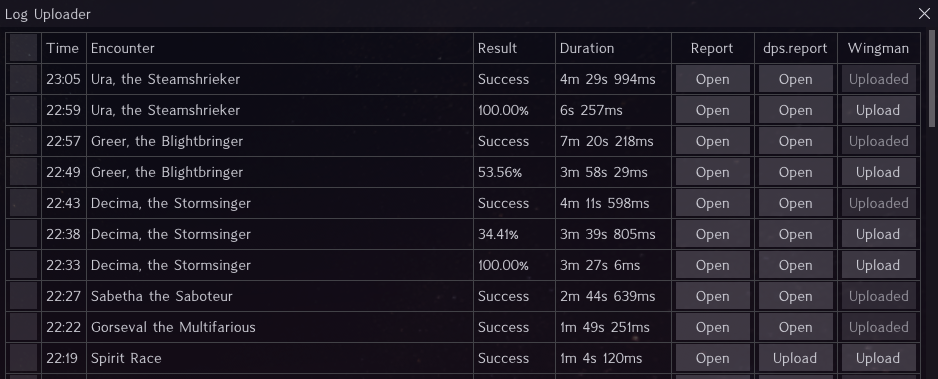
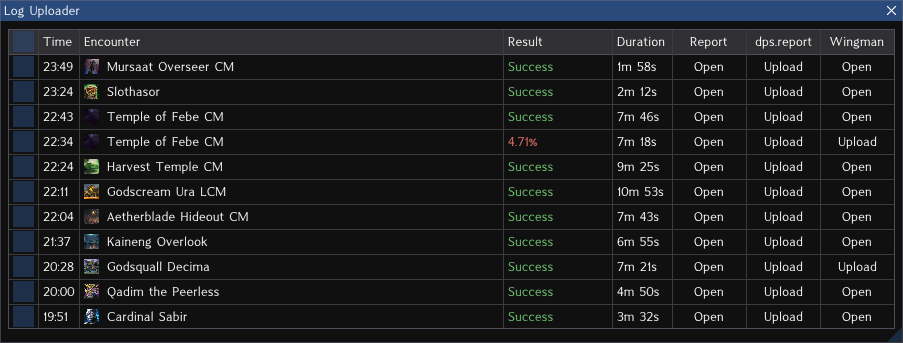
Updated the screenshots and the README

diff --git a/README.md b/README.md
@@ -1,21 +1,45 @@
 # Nexus Log Uploader
 
-[Nexus](https://github.com/RaidcoreGG/Nexus) addon to automatically parse new arcdps logs locally and optionally upload them to [dps.report](https://dps.report) or [Wingman](https://gw2wingman.nevermindcreations.de).
+[Nexus](https://github.com/RaidcoreGG/Nexus) addon for Guild Wars 2 that parses your new arcdps logs locally with Elite Insights and uploads them to [dps.report](https://dps.report) or [Wingman](https://gw2wingman.nevermindcreations.de) if you want.
+
+![Logs table](screenshots/table.png)
+
+## Installation
+
+Download `log_uploader.dll` from the [latest release](https://github.com/eioz/nexus-log-uploader/releases/latest) and put it in `<Guild Wars 2>\addons`. Nexus keeps it up to date. The addon installs Elite Insights itself.
 
 ## Features
 
-- **Sessions:** logs are grouped into sessions. A log more than two hours after the previous one starts a new session, and **Sessions > New session** in the context menu starts one with the next log. Earlier sessions can be opened from the same menu.
-- **Archiving:** archiving a session deletes its Elite Insights reports but keeps the summaries and links. A log can be parsed again as long as its arcdps file exists. Archived sessions can be unarchived or deleted. Your arcdps logs are never deleted.
-- **Encounter tooltip:** hover an encounter name to see the squad with boss DPS, cleave, CC and boons. The display options choose the boons and whether to show downs and deaths.
-- **Wingman statistics:** the tooltip compares a kill with the other kills of its patch on Wingman: its speed percentile, the median and fastest kill, and your personal best. Players with a Wingman rank show it. Once the log is on Wingman, the Wingman button opens its report and the tooltip adds each player's DPS percentile, plus the support percentile for supports.
+### Logs table
 
-## Screenshots
+New logs show up with their result and duration. The buttons open the Elite Insights report and upload to dps.report or Wingman, or open the log there once it is uploaded.
 
-![context-menu](screenshots/context-menu.png)
-![display-options](screenshots/display-options.png)
-![parser-options](screenshots/parser-options.png)
-![dps-report-options](screenshots/dps-report-options.png)
-![wingman-options](screenshots/wingman-options.png)
+Right-click for actions on the last, the selected or all logs, like copying the dps.report links as a list or as markdown links. The sessions and settings are in the same menu.
+
+![Context menu](screenshots/context-menu.png)
+
+### Encounter tooltip
+
+Hover an encounter to see the squad by subgroup with boss DPS, cleave, CC and boons.
+
+For bosses Wingman knows, the tooltip compares a kill with the other kills of its patch: how many kills it beat, the median and fastest kill, and your personal best. Players with a Wingman rank show it. Once the log is on Wingman, the tooltip also shows each player's DPS percentile, plus the support percentile for supports.
+
+![Encounter tooltip](screenshots/tooltip.png)
+
+### Sessions
+
+After the game starts, the first log begins a new session. **Resume last session** in the empty table continues the previous one instead, and **Sessions > New session** in the context menu starts a new one with the next log. Earlier sessions open from the same menu.
+
+Archiving a session removes its Elite Insights reports but keeps the summaries and links. Its logs can be parsed again as long as their arcdps files exist. Archived sessions can be unarchived or deleted. Your arcdps logs are never deleted.
+
+### Settings
+
+dps.report and Wingman can each upload new logs of the encounters you pick, optionally only kills, and dps.report can copy the link to the clipboard. The display options pick the columns and the tooltip boons, and can add downs and deaths to the tooltip.
+
+The settings are in the Nexus options and in the context menu.
+
+![Display options](screenshots/display-options.png)
+![dps.report options](screenshots/dps-report-options.png)
 
 ## Building
 
